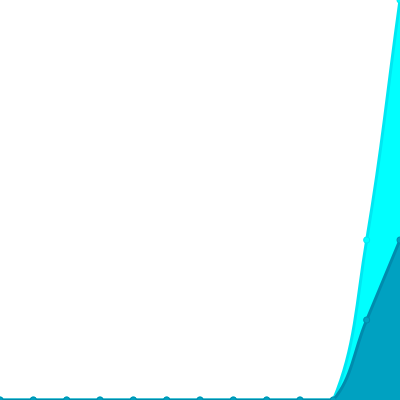
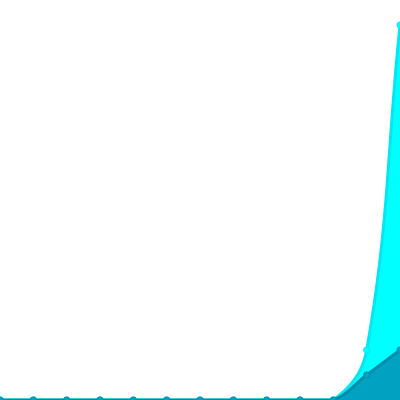
Update views

Changed region(s): [[0.84, 0.0, 1.0, 0.99]]

diff --git a/README.md b/README.md
@@ -26,26 +26,22 @@ The project created and maintained by [gayanvoice](https://github.com/gayanvoice
 			</a>
 		</td>
 		<td>
-			2022/9/6 4:26 PM UTC
+			2022/9/7 12:00 AM UTC
 		</td>
 		<td>
-			2
+			3
 		</td>
 		<td>
-			<img alt="Response time graph" src="https://github.com/Manu-Developer/Profile-Views-Counter/raw/master/graph/465495654/small/year.png" height="20"> 4
+			<img alt="Response time graph" src="https://github.com/Manu-Developer/Profile-Views-Counter/raw/master/graph/465495654/small/year.png" height="20"> 6
 		</td>
 	</tr>
 </table>
 
-<small><i>Last updated on 2022/9/8 6:11 PM UTC</i></small>
+<small><i>Last updated on 2022/9/9 12:50 AM UTC</i></small>
 
 ## ✂Copy and 📋 Paste
 ### Total Views Badge
 [![Image of https://github.com/Manu-Developer/Profile-Views-Counter](https://github.com/Manu-Developer/Profile-Views-Counter/blob/master/svg/profile/badge.svg)](https://github.com/Manu-Developer/Profile-Views-Counter)
-
-### Other Stat
-<img alt="Response time graph" src="https://visitor-badge.laobi.icu/badge?page_id=manu-developer.visitor-badge" height="20">
-
 
 ```readme
 [![Image of https://github.com/Manu-Developer/Profile-Views-Counter](https://github.com/Manu-Developer/Profile-Views-Counter/blob/master/svg/profile/badge.svg)](https://github.com/Manu-Developer/Profile-Views-Counter)

diff --git a/readme/465495654/year.md b/readme/465495654/year.md
@@ -26,7 +26,7 @@
 			<code>2</code>
 		</td>
 		<td>
-			<code>5</code>
+			<code>15</code>
 		</td>
 	</tr>
 	<tr>
@@ -164,7 +164,7 @@
 </table>
 
 </details>
-<small><i>Last updated on 2022/9/8 6:11 PM UTC</i></small>
+<small><i>Last updated on 2022/9/9 12:50 AM UTC</i></small>
 
 ## ✂Copy and 📋 Paste
 ### SVG Badge
